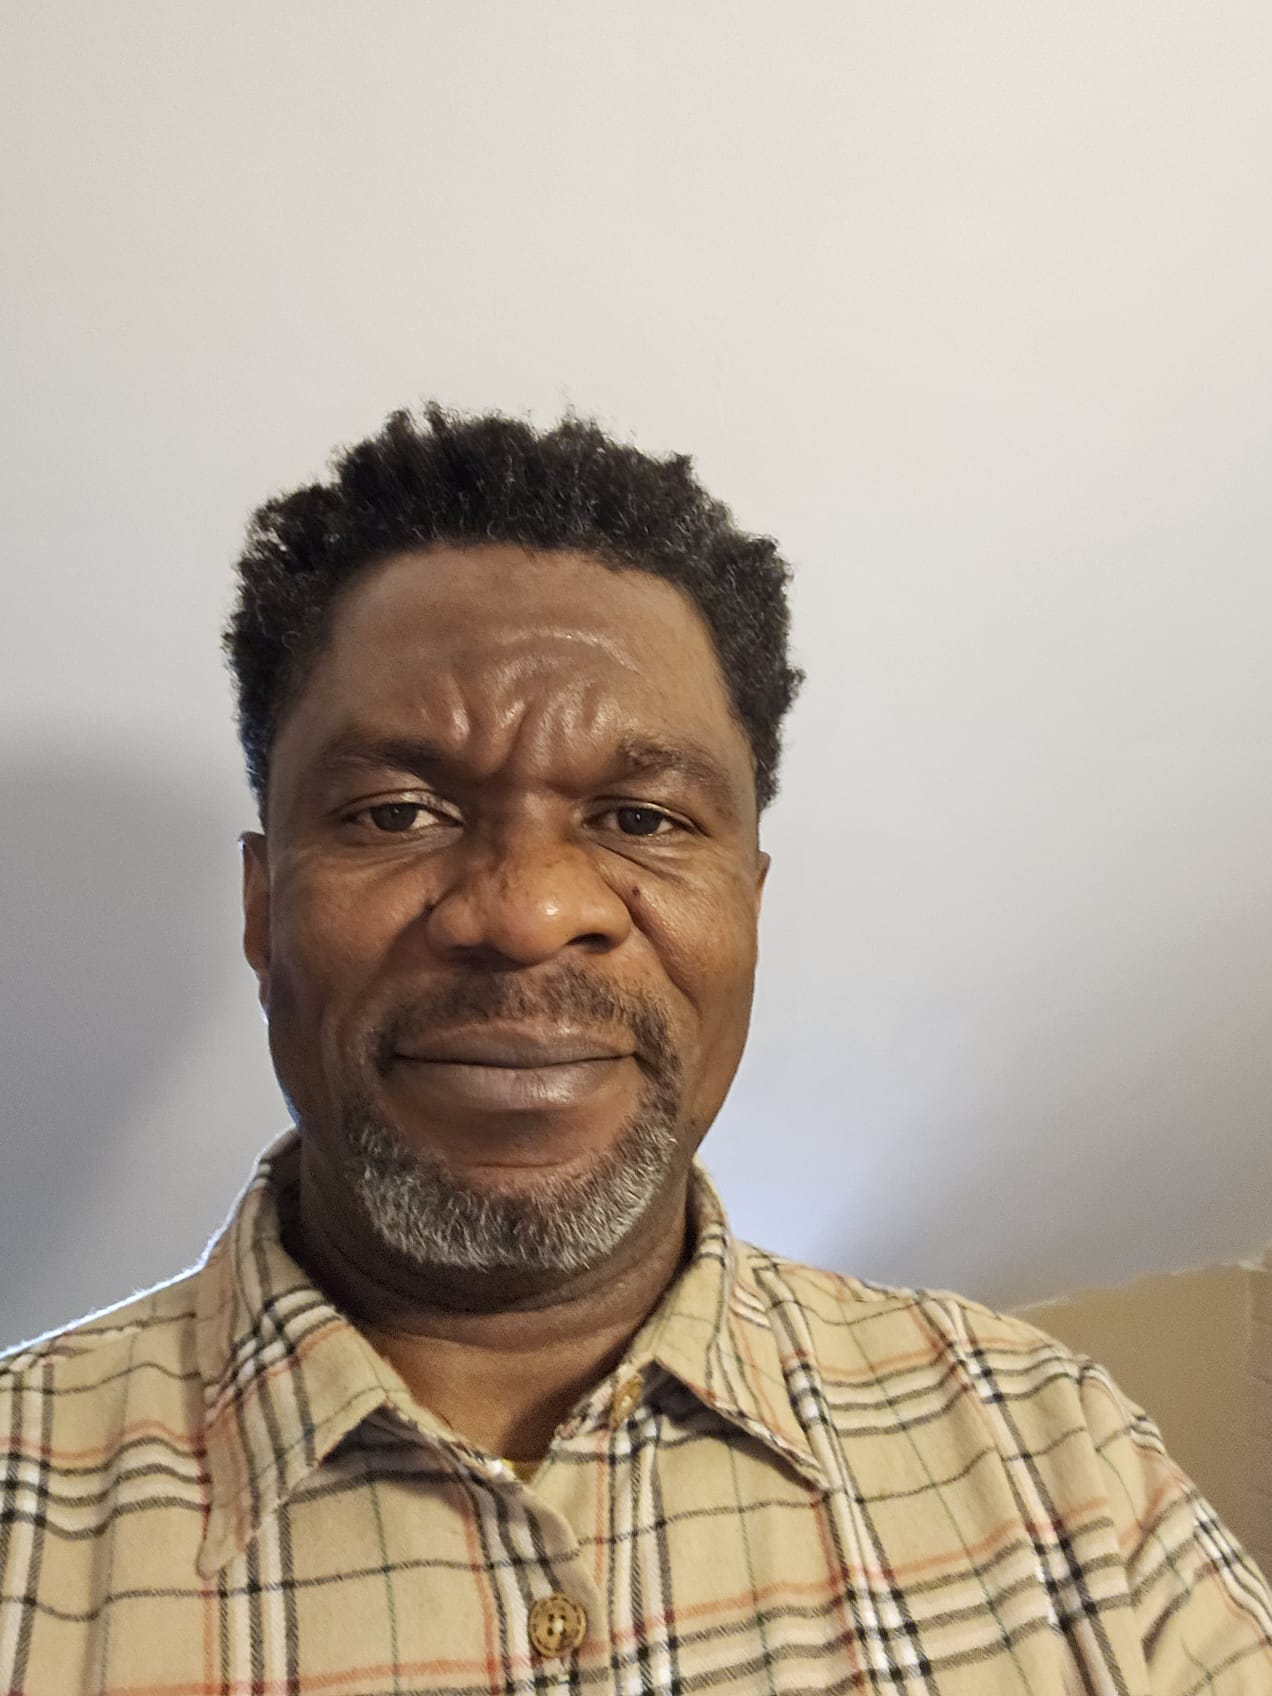
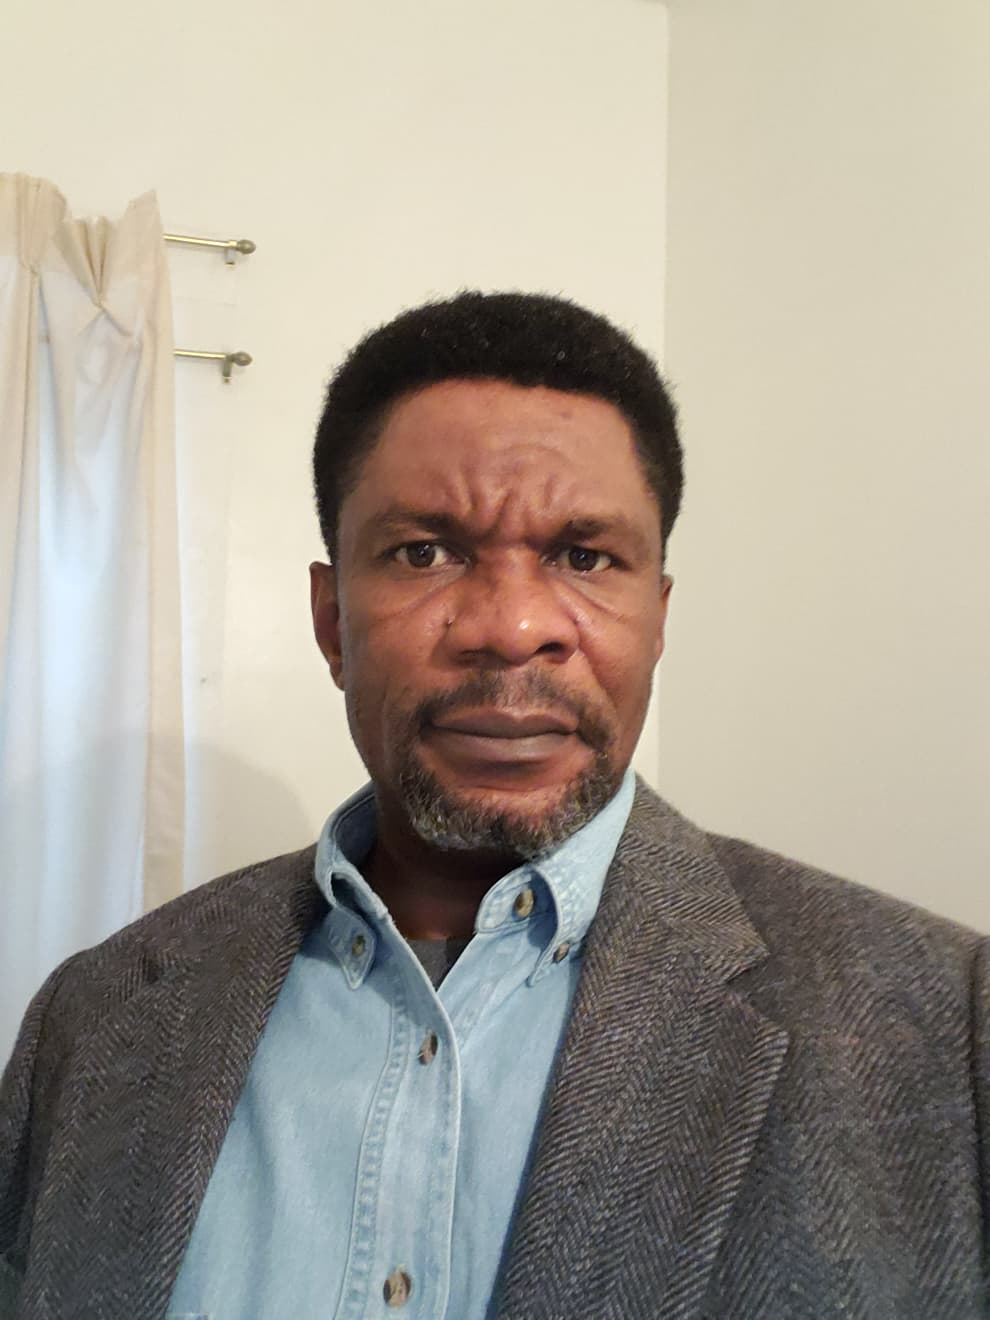
build + updated founders photos

diff --git a/src/components/products/SendCreatorToCheckoutForm.js b/src/components/products/SendCreatorToCheckoutForm.js
@@ -163,6 +163,7 @@ function SendCreatorToCheckoutForm(props) {
 
   const [cartForCheckoutList, setCartForCheckoutList] = useState([]);
   const [requestedModel, setRequestedModel] = useState("any-model");
+  const [bookingType, setBookingType] = useState("drop-off");
  
 
   const dispatch = useDispatch();
@@ -331,6 +332,10 @@ useEffect(() => {
     
     const handleRequestedModelChange=(event)=>{
       setRequestedModel(event.target.value)
+    }
+
+    const handleBookingTypeChange=(event)=>{
+      setBookingType(event.target.value)
     }
 
       //get the countries list
@@ -527,8 +532,43 @@ useEffect(() => {
             >
               <MenuItem value="one-way">One Way Trip Coverage</MenuItem>
               <MenuItem value="two-way">Two Way Trip Coverage</MenuItem>
+              <MenuItem value="multiple-stops">Multiple Stops</MenuItem>
             </Select>
             <FormHelperText>Select Booking Coverage</FormHelperText>
+          </FormControl>
+        </Box>
+      );
+    };
+
+
+
+    const renderBookingTypeField = ({
+      input,
+      label,
+      meta: { touched, error, invalid },
+      type,
+      id,
+      ...custom
+    }) => {
+      return (
+        <Box>
+          <FormControl variant="outlined">
+            {/* <InputLabel id="vendor_city">City</InputLabel> */}
+            <Select
+              labelId="bookingType"
+              id="bookingType"
+              value={bookingType}
+              onChange={handleBookingTypeChange}
+              // label="User"
+              style={{ marginTop: 10, width: 300, height: 38, marginLeft:0,marginRight:0 }}
+              //{...input}
+            >
+              <MenuItem value="drop-off">Drop Off</MenuItem>
+              <MenuItem value="drop-off-and-pickup">Drop Off And Pickup</MenuItem>
+              <MenuItem value="drop-off-and-wait">Drop Off And Wait</MenuItem>              
+              <MenuItem value="full-day">Full Day</MenuItem>
+            </Select>
+            <FormHelperText>Select Booking Type</FormHelperText>
           </FormControl>
         </Box>
       );
